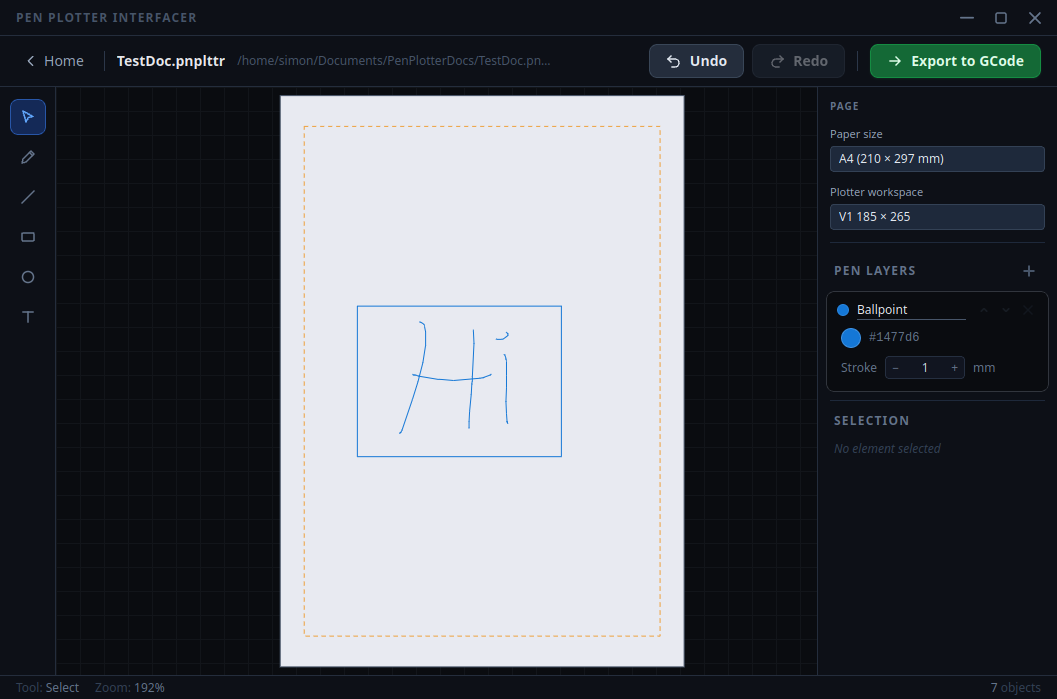
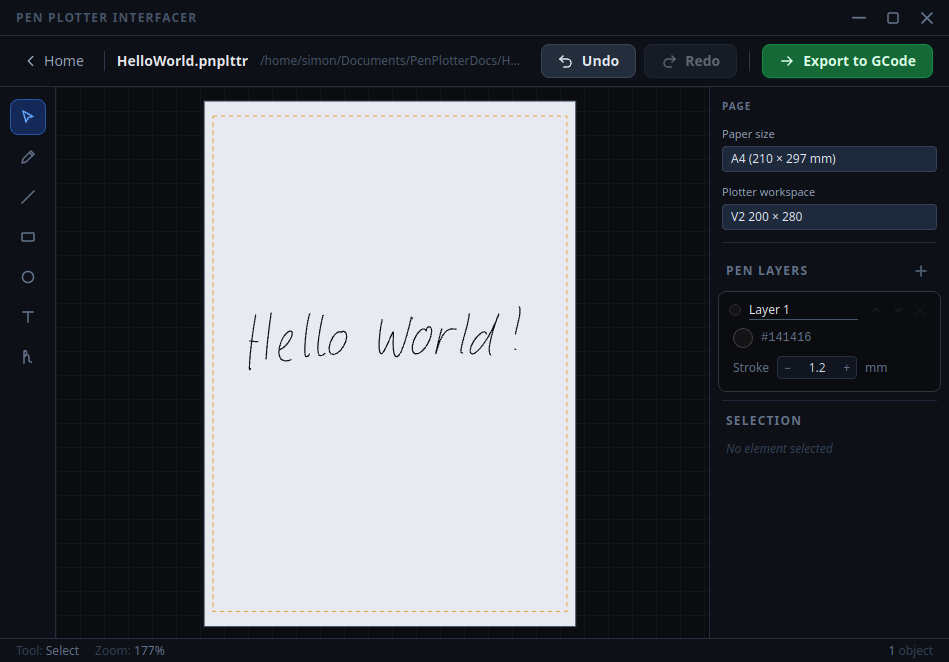
updated readme

diff --git a/README.md b/README.md
@@ -13,7 +13,8 @@ Eine Desktop-Anwendung zum Erstellen von Zeichnungen und zum Steuern eines Pen-P
 - **GCode-Editor** — Eingebauter Editor zum Anzeigen und Bearbeiten von GCode-Dateien vor dem Senden.
 - **Plotter-Verwaltung** — Erkennt Plotter im lokalen Netzwerk automatisch per mDNS. Verbindung zum Gerät ermöglicht Echtzeit-Statusanzeige, Dateiverwaltung und Job-Steuerung (WebSocket).
 - **Eigene Schriftarten** — Strichbasierte Fonts für das Textwerkzeug; benutzerdefinierte Schriften können direkt im Dokument eingebettet werden.
-- **Zuletzt geöffnet** — Liste der zuletzt bearbeiteten `.pnplttr`-Dokumente auf dem Startbildschirm.
+- **Handschrift-Generierung** — Eingebautes rekurrentes neuronales Netz (RNN) zur Erzeugung realistischer synthetischer Handschrift. Basiert auf [sjvasquez/handwriting-synthesis](https://github.com/sjvasquez/handwriting-synthesis). Das Modell läuft lokal als ONNX-Datei über das Rust-Backend.
+- **Zuletzt geöffnet** — Liste der zuletzt bearbeiteten `.pnplttr` und `.gcode`-Dokumente auf dem Startbildschirm.
 
 ---
 
@@ -43,6 +44,7 @@ Eine Desktop-Anwendung zum Erstellen von Zeichnungen und zum Steuern eines Pen-P
 | Build | Vite 7 |
 | Geräteerkennung | mDNS (`mdns-sd` Crate) |
 | Plotter-Kommunikation | HTTP REST + WebSocket |
+| Handschrift-KI | RNN-Modell (ONNX) basierend auf [handwriting-synthesis](https://github.com/sjvasquez/handwriting-synthesis) |
 
 ---
 
